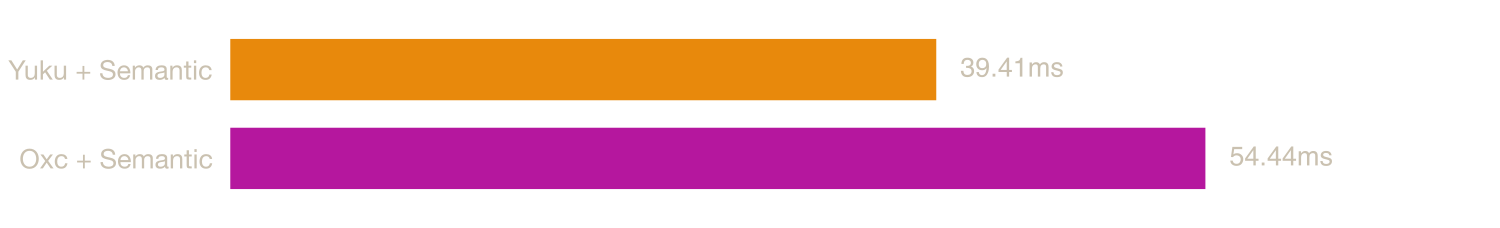
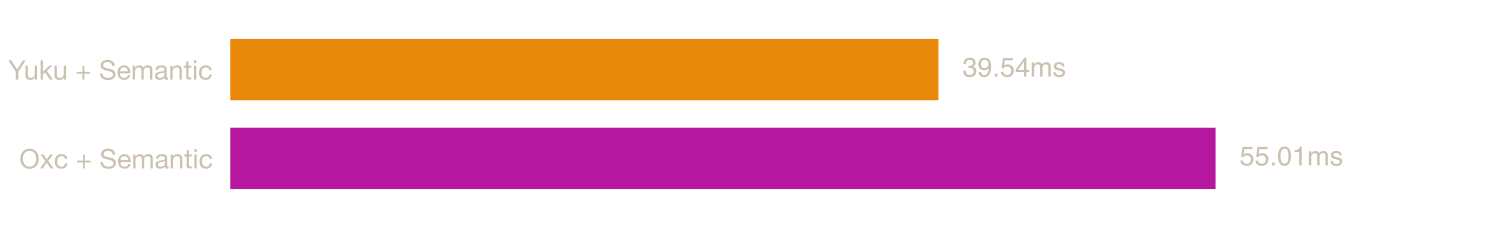
update files

Changed region(s): [[0.7973, 0.5526, 0.8893, 0.8289], [0.6133, 0.2456, 0.7053, 0.3377]]

diff --git a/scripts/generate-readme.ts b/scripts/generate-readme.ts
@@ -61,9 +61,9 @@ const FILES = {
 		path: "files/typescript.js",
 		source_url: `${FILES_SOURCE_URL_PREFIX}/typescript.js`,
 	},
-	calcom: {
-		path: "files/calcom.tsx",
-		source_url: `${FILES_SOURCE_URL_PREFIX}/calcom.tsx`,
+	checker: {
+		path: "files/checker.ts",
+		source_url: `${FILES_SOURCE_URL_PREFIX}/checker.ts`,
 	},
 	react: {
 		path: "files/react.js",
@@ -218,13 +218,25 @@ async function generateChart(entries: ParserEntry[], chartName: string): Promise
 }
 
 function generateTable(entries: ParserEntry[]): string {
-	const lines = ["| Parser | Median | Min | p99 |", "|--------|--------|-----|-----|"];
+	const lines = [
+		"| Parser | Median | Min | p99 | Relative |",
+		"|--------|--------|-----|-----|----------|",
+	];
+
+	const fastest = entries.reduce<number | null>(
+		(min, e) =>
+			e.result && (min === null || e.result.median < min) ? e.result.median : min,
+		null,
+	);
 
 	for (const { name, result } of entries) {
+		if (!result) {
+			lines.push(`| ${name} | Failed to parse | - | - | - |`);
+			continue;
+		}
+		const relative = fastest ? `${(result.median / fastest).toFixed(2)}×` : "-";
 		lines.push(
-			result
-				? `| ${name} | ${formatTime(result.median)} | ${formatTime(result.min)} | ${formatTime(result.p99)} |`
-				: `| ${name} | Failed to parse | - | - |`,
+			`| ${name} | ${formatTime(result.median)} | ${formatTime(result.min)} | ${formatTime(result.p99)} | ${relative} |`,
 		);
 	}
 

diff --git a/scripts/run-bench.ts b/scripts/run-bench.ts
@@ -3,7 +3,7 @@ import { join } from "node:path";
 
 const FILES = [
 	{ key: "typescript", path: "files/typescript.js" },
-	{ key: "calcom", path: "files/calcom.tsx" },
+	{ key: "checker", path: "files/checker.ts" },
 	{ key: "react", path: "files/react.js" },
 ] as const;
 

diff --git a/README.md b/README.md
@@ -39,23 +39,23 @@ An extensible Rust-based platform for compiling and bundling JavaScript and Type
 
 ![Bar chart comparing native parser speeds for typescript.js](charts/typescript.png)
 
-| Parser | Median | Min | p99 |
-|--------|--------|-----|-----|
-| Yuku | 22.41 ms | 21.91 ms | 46.32 ms |
-| Oxc | 23.95 ms | 23.85 ms | 25.92 ms |
-| SWC | 42.33 ms | 41.21 ms | 64.93 ms |
+| Parser | Median | Min | p99 | Relative |
+|--------|--------|-----|-----|----------|
+| Yuku | 22.04 ms | 21.76 ms | 22.49 ms | 1.00× |
+| Oxc | 23.94 ms | 23.82 ms | 24.23 ms | 1.09× |
+| SWC | 41.21 ms | 40.68 ms | 41.91 ms | 1.87× |
 
-### [calcom.tsx](https://raw.githubusercontent.com/yuku-toolchain/parser-benchmark-files/refs/heads/main/calcom.tsx)
+### [checker.ts](https://raw.githubusercontent.com/yuku-toolchain/parser-benchmark-files/refs/heads/main/checker.ts)
 
-**File size:** 1.01 MB
+**File size:** 2.95 MB
 
-![Bar chart comparing native parser speeds for calcom.tsx](charts/calcom.png)
+![Bar chart comparing native parser speeds for checker.ts](charts/checker.png)
 
-| Parser | Median | Min | p99 |
-|--------|--------|-----|-----|
-| Yuku | 3.50 ms | 3.45 ms | 3.73 ms |
-| Oxc | 3.66 ms | 3.53 ms | 9.02 ms |
-| SWC | 6.28 ms | 6.10 ms | 6.89 ms |
+| Parser | Median | Min | p99 | Relative |
+|--------|--------|-----|-----|----------|
+| Yuku | 7.38 ms | 7.34 ms | 7.55 ms | 1.00× |
+| Oxc | 7.73 ms | 7.67 ms | 7.99 ms | 1.05× |
+| SWC | 13.51 ms | 13.16 ms | 15.64 ms | 1.83× |
 
 ### [react.js](https://raw.githubusercontent.com/yuku-toolchain/parser-benchmark-files/refs/heads/main/react.js)
 
@@ -63,11 +63,11 @@ An extensible Rust-based platform for compiling and bundling JavaScript and Type
 
 ![Bar chart comparing native parser speeds for react.js](charts/react.png)
 
-| Parser | Median | Min | p99 |
-|--------|--------|-----|-----|
-| Yuku | 0.14 ms | 0.14 ms | 0.15 ms |
-| Oxc | 0.16 ms | 0.16 ms | 0.18 ms |
-| SWC | 0.28 ms | 0.27 ms | 0.30 ms |
+| Parser | Median | Min | p99 | Relative |
+|--------|--------|-----|-----|----------|
+| Yuku | 0.14 ms | 0.14 ms | 0.15 ms | 1.00× |
+| Oxc | 0.16 ms | 0.16 ms | 0.17 ms | 1.15× |
+| SWC | 0.27 ms | 0.27 ms | 0.28 ms | 1.94× |
 
 ## Semantic
 
@@ -81,28 +81,28 @@ The benchmarks below measure parsing followed by this additional pass, which bui
 
 ![Bar chart comparing parser speeds with semantic analysis for typescript.js](charts/typescript_semantic.png)
 
-| Parser | Median | Min | p99 |
-|--------|--------|-----|-----|
-| Yuku + Semantic | 39.41 ms | 39.04 ms | 43.03 ms |
-| Oxc + Semantic | 54.44 ms | 52.99 ms | 79.01 ms |
+| Parser | Median | Min | p99 | Relative |
+|--------|--------|-----|-----|----------|
+| Yuku + Semantic | 39.54 ms | 39.25 ms | 40.57 ms | 1.00× |
+| Oxc + Semantic | 55.01 ms | 53.07 ms | 56.58 ms | 1.39× |
 
-### [calcom.tsx](https://raw.githubusercontent.com/yuku-toolchain/parser-benchmark-files/refs/heads/main/calcom.tsx)
+### [checker.ts](https://raw.githubusercontent.com/yuku-toolchain/parser-benchmark-files/refs/heads/main/checker.ts)
 
-![Bar chart comparing parser speeds with semantic analysis for calcom.tsx](charts/calcom_semantic.png)
+![Bar chart comparing parser speeds with semantic analysis for checker.ts](charts/checker_semantic.png)
 
-| Parser | Median | Min | p99 |
-|--------|--------|-----|-----|
-| Oxc + Semantic | 7.06 ms | 6.96 ms | 7.65 ms |
-| Yuku + Semantic | 7.58 ms | 7.51 ms | 11.13 ms |
+| Parser | Median | Min | p99 | Relative |
+|--------|--------|-----|-----|----------|
+| Yuku + Semantic | 12.93 ms | 12.84 ms | 13.49 ms | 1.00× |
+| Oxc + Semantic | 18.11 ms | 17.87 ms | 36.31 ms | 1.40× |
 
 ### [react.js](https://raw.githubusercontent.com/yuku-toolchain/parser-benchmark-files/refs/heads/main/react.js)
 
 ![Bar chart comparing parser speeds with semantic analysis for react.js](charts/react_semantic.png)
 
-| Parser | Median | Min | p99 |
-|--------|--------|-----|-----|
-| Yuku + Semantic | 0.27 ms | 0.27 ms | 0.29 ms |
-| Oxc + Semantic | 0.34 ms | 0.34 ms | 0.36 ms |
+| Parser | Median | Min | p99 | Relative |
+|--------|--------|-----|-----|----------|
+| Yuku + Semantic | 0.27 ms | 0.26 ms | 0.28 ms | 1.00× |
+| Oxc + Semantic | 0.34 ms | 0.34 ms | 0.36 ms | 1.28× |
 
 ## Run Benchmarks
 
